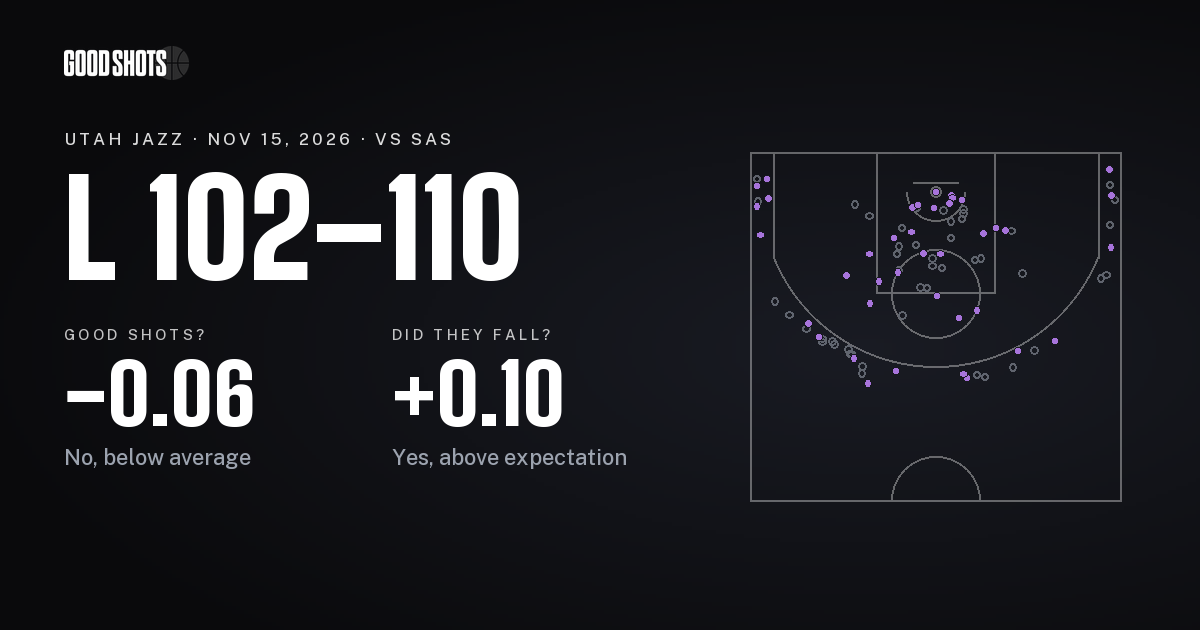
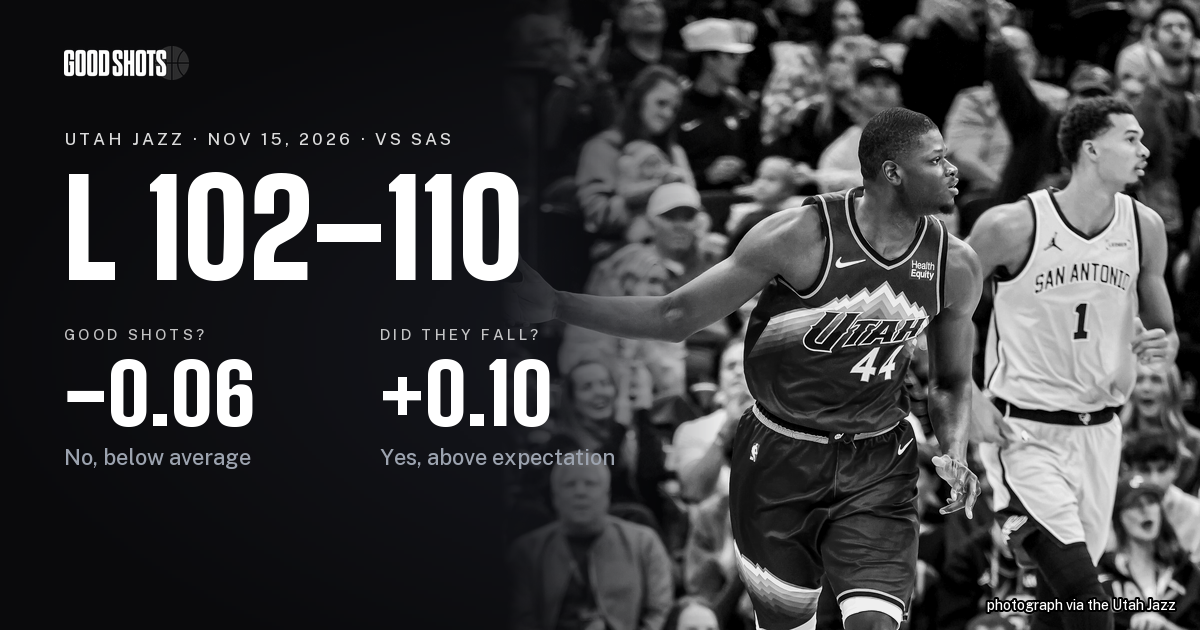
Give the San Antonio report card its game photograph
Mo Bamba flashing three fingers as Victor Wembanyama jogs behind him,
the header of the Jazz's 11-15 recap (ZMR02727), credited "photograph
via the Utah Jazz" from an empty record. The game is verified by the
uniforms: the Jazz have hosted San Antonio three times in 2026-27, and
wore white for the other two (the 10-12 preseason game and 10-28); the
11-02 game was at San Antonio. Purple against the Spurs at home is 11-15
only. Bamba
rules out the 2026-01-22 home game against San Antonio, since he is not
in that night's box. The finder's other frame (DSC09153, Bamba jogging
past the Jazz bench) headed the 11-16 Bamba feature and was passed
over: no opponent is in it, and purple at home fits four games. Focal
points checked at the 375px poster and the 1440px wide panel with its
left fade; the share card redrawn with the photograph.

diff --git a/src/teams/gamePhotos.ts b/src/teams/gamePhotos.ts
@@ -123,6 +123,13 @@ export const GAME_PHOTOS: Readonly<Record<string, GamePhoto>> = {
     imagePosition: '52% 40%',
     imagePositionWide: '30% 40%',
   },
+  '2026-11-15-sas': {
+    imagePath: 'img/games/2026-11-15-sas.jpg',
+    imageAlt: 'Mo Bamba flashes three fingers as a San Antonio player jogs behind him, in the purple Jazz number 44 jersey',
+    imageCredit: 'photograph via the Utah Jazz',
+    imagePosition: '54% 40%',
+    imagePositionWide: '50% 30%',
+  },
 }
 
 export function gamePhotoOf(slug: string): GamePhoto | undefined {

diff --git a/docs/image-credits.md b/docs/image-credits.md
@@ -456,3 +456,28 @@ names Getty on its record and is not a candidate.
   behind him reads 9:52 over a 12 on the shot clock, and Peterson's only
   field goal attempt within seconds of 9:52 in any period is his made
   25-foot three at 9:51 of the third quarter.
+
+The photo finder listed two team frames for 11-15 after the morning
+catch-up session that published it (2026-11-16), and the one that shows
+its opponent was picked the same day. Pulled 2026-11-16 by `game:photo`
+and retained in `data/game-sources/2026-11-15-sas.jpg`; the record carries
+an empty credit and the file no embedded metadata, so it is credited
+"photograph via the Utah Jazz".
+
+- `public/img/games/2026-11-15-sas.jpg`, Mo Bamba (44, purple) flashing
+  three fingers (thumb and two) with his arm out wide as Victor
+  Wembanyama (1, San Antonio's silver) jogs behind him, a crowd in Jazz
+  gear beyond: the header of the Jazz's 11-15 recap,
+  `cdn.nba.com/teams/uploads/sites/1610612762/2026/11/ZMR02727.jpg`
+  (3391x2437). **The game is verified by the uniforms**: the Jazz have
+  hosted San Antonio three times in 2026-27, the 10-12 preseason game in
+  white (the Peterson banner from that night, above), 10-28 in white (an
+  NBAE frame captioned for it, `docs/research/jazz-2026-27-game-photos.md`),
+  and 11-15; the 11-02 game was at San Antonio. Bamba rules out the one
+  earlier look-alike, the 2026-01-22 home game against San Antonio: he is
+  not in that night's box score (his two 2025-26 Jazz games were 03-04
+  and 03-05, against Philadelphia and Washington). The finder's other
+  frame, `.../2026/11/DSC09153.jpg` (Bamba, 44, purple, jogging back past
+  the Jazz bench with no opponent in frame), headed the 11-16 Bamba
+  feature and was passed over: purple at home also fits 10-25, 10-26, and
+  11-10, and nothing in it proves its game.
